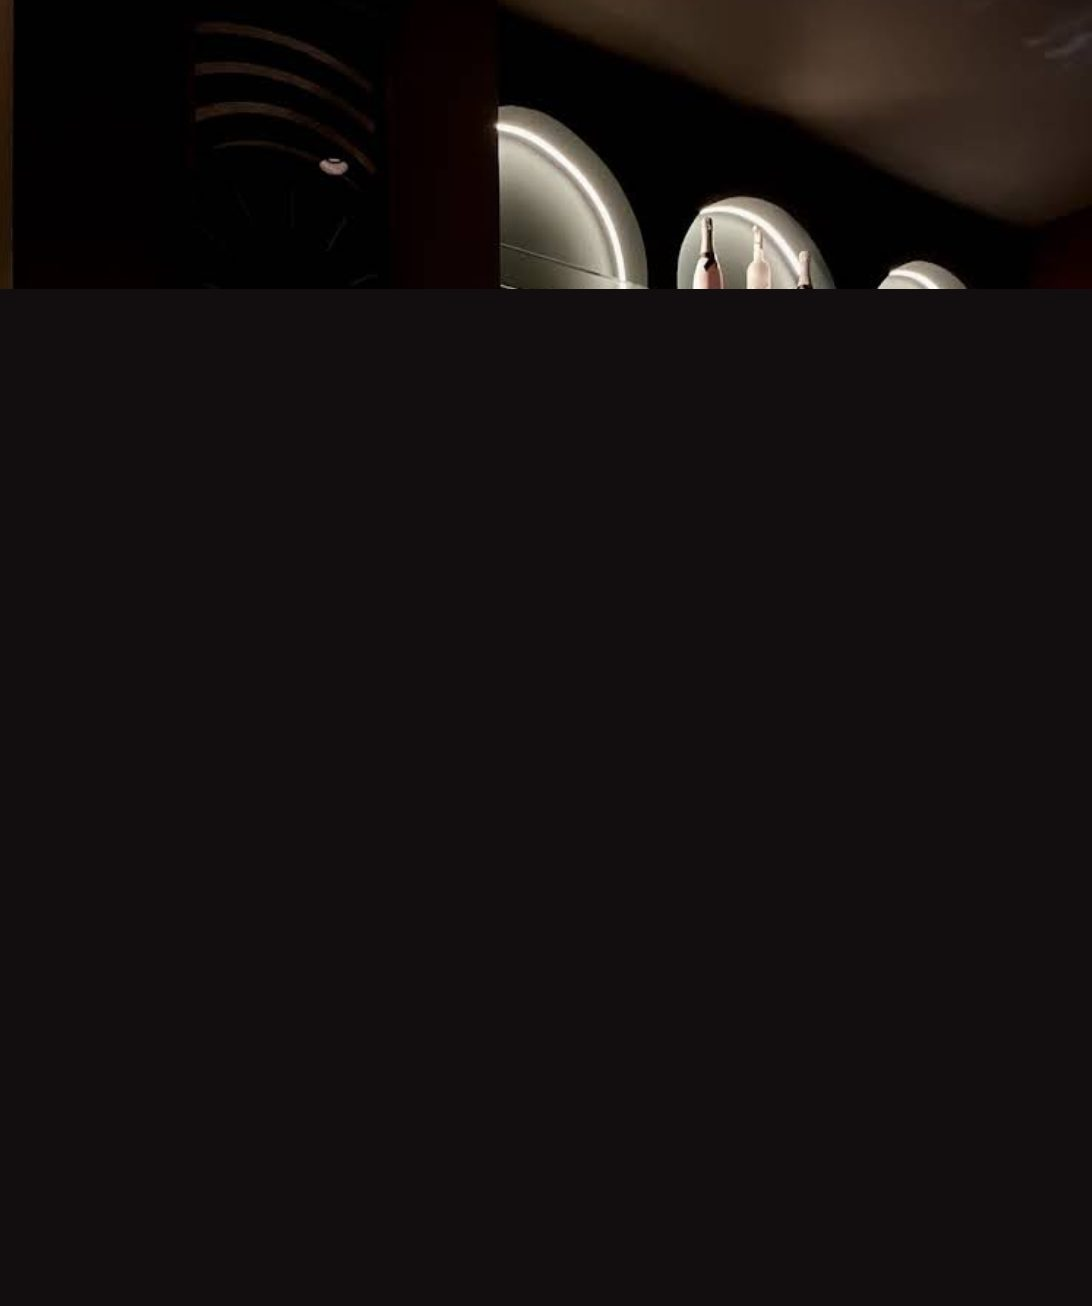
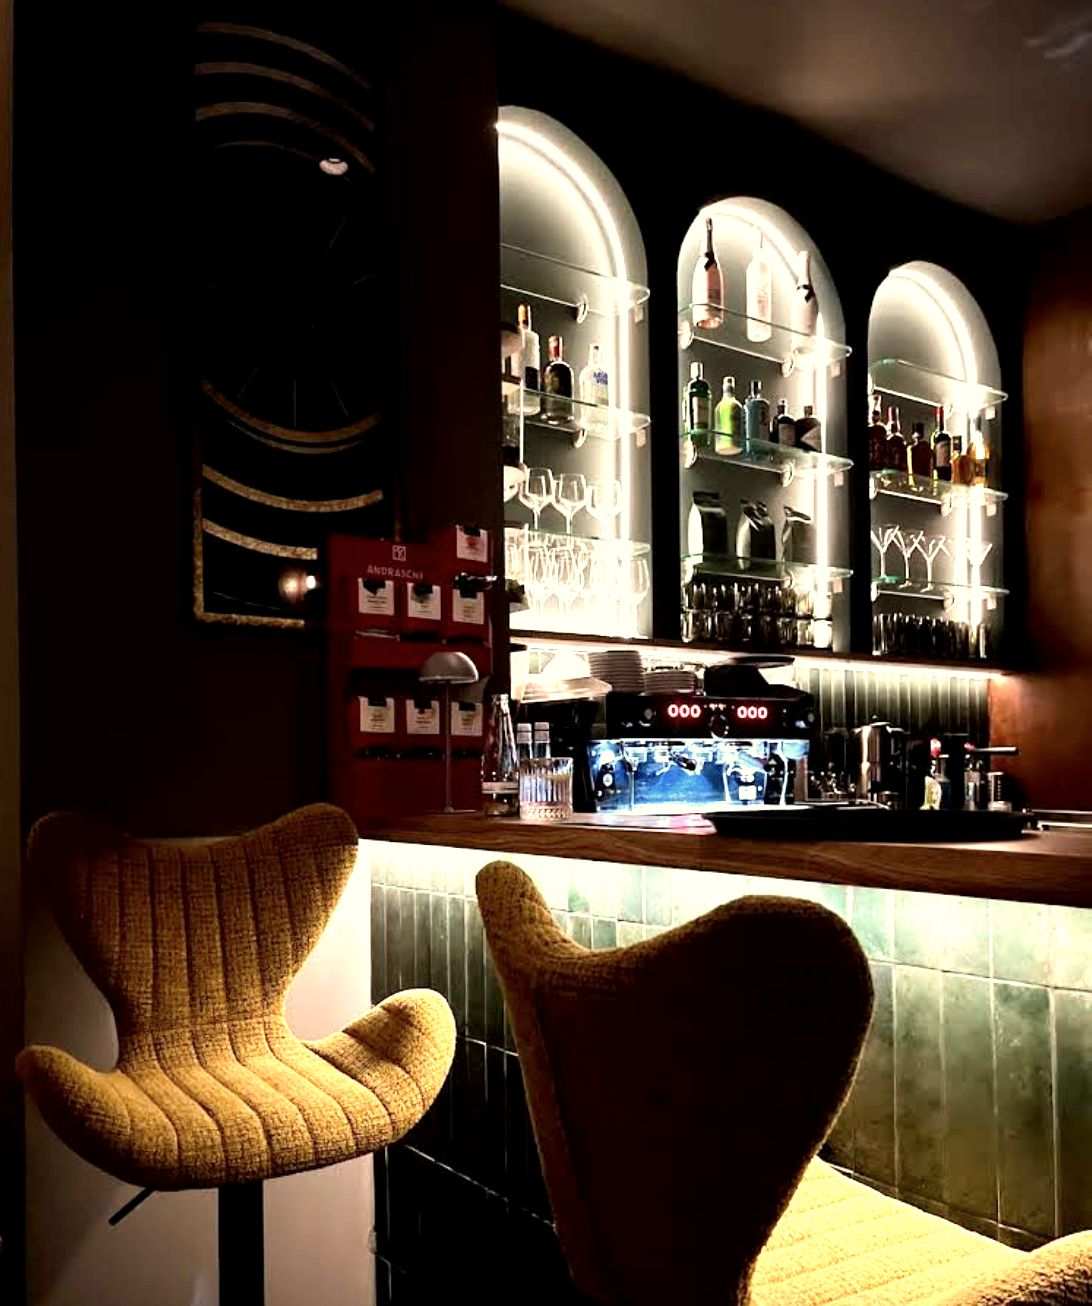
Real hero photos, drop placeholder menu link, hours line and WhatsApp CTA
Replace the truncated exports with the full-size photos from the design
project, graded consistently (matched luminance, slight contrast,
desaturation and warmth) and compressed to progressive JPEG.
Remove the Karte/Menu link, the WhatsApp reservation button and the
opening-hours line on the Fassade page until the real details exist.

Claude-Session: https://claude.ai/code/session_01W9H5piJPiQHEiohwsZK1Ds

diff --git a/arch.html b/arch.html
@@ -21,7 +21,7 @@
 
   <nav class="nav">
     <span class="wordmark"><span class="s">Studio</span><span class="b">B</span></span>
-    <div class="links"><a href="#">Karte</a><a href="https://www.instagram.com/studio.b.bln/">Instagram</a><a href="https://www.google.com/maps/place/Studio+B/@52.5016235,13.4146316,17z/data=!3m1!4b1!4m6!3m5!1s0x47a84f69cd9906bf:0x257fa1ad01eaf12c!8m2!3d52.5016203!4d13.4172065!16s%2Fg%2F11nty3sv2d?entry=ttu&amp;g_ep=EgoyMDI2MDkwMS4wIKXMDSoASAFQAw%3D%3D">Oranienstr. 168</a></div>
+    <div class="links"><a href="https://www.instagram.com/studio.b.bln/">Instagram</a><a href="https://www.google.com/maps/place/Studio+B/@52.5016235,13.4146316,17z/data=!3m1!4b1!4m6!3m5!1s0x47a84f69cd9906bf:0x257fa1ad01eaf12c!8m2!3d52.5016203!4d13.4172065!16s%2Fg%2F11nty3sv2d?entry=ttu&amp;g_ep=EgoyMDI2MDkwMS4wIKXMDSoASAFQAw%3D%3D">Oranienstr. 168</a></div>
   </nav>
 
   <div class="stage">
@@ -48,7 +48,6 @@
         <div><span>Fr–Sa</span><span>9–03</span></div>
         <div><span>So</span><span>9–24</span></div>
       </div>
-      <a class="btn" href="https://wa.me/49000000000">Tisch · WhatsApp</a>
     </div>
   </div>
 

diff --git a/index.html b/index.html
@@ -28,7 +28,7 @@
   </div>
 
   <nav class="nav">
-    <div class="links"><a href="#">Karte / Menu</a><a href="https://www.instagram.com/studio.b.bln/">Instagram</a></div>
+    <div class="links"><a href="https://www.instagram.com/studio.b.bln/">Instagram</a></div>
     <div class="links"><span>Kreuzberg 36</span></div>
   </nav>
 
@@ -38,9 +38,7 @@
     <div class="info">
       <div>Bar · Küche<span class="muted"> / Bar · Kitchen</span></div>
       <a class="dim" href="https://www.google.com/maps/place/Studio+B/@52.5016235,13.4146316,17z/data=!3m1!4b1!4m6!3m5!1s0x47a84f69cd9906bf:0x257fa1ad01eaf12c!8m2!3d52.5016203!4d13.4172065!16s%2Fg%2F11nty3sv2d?entry=ttu&amp;g_ep=EgoyMDI2MDkwMS4wIKXMDSoASAFQAw%3D%3D">Oranienstraße 168 · 10999 Berlin ↗</a>
-      <div class="dim" style="font-size:13px">Mo–Di 9–20 · Mi 9–24 · Do 9–01 · Fr–Sa 9–03 · So 9–24</div>
     </div>
-    <a class="btn" href="https://wa.me/49000000000">Reservieren · WhatsApp</a>
   </div>
 </main>
 </body>

diff --git a/split.html b/split.html
@@ -35,7 +35,7 @@
   <div class="grain" aria-hidden="true"></div>
 
   <nav class="nav">
-    <div class="links"><a href="#">Menu</a><a href="https://www.instagram.com/studio.b.bln/">@studio.b.bln</a></div>
+    <div class="links"><a href="https://www.instagram.com/studio.b.bln/">@studio.b.bln</a></div>
     <a href="https://www.google.com/maps/place/Studio+B/@52.5016235,13.4146316,17z/data=!3m1!4b1!4m6!3m5!1s0x47a84f69cd9906bf:0x257fa1ad01eaf12c!8m2!3d52.5016203!4d13.4172065!16s%2Fg%2F11nty3sv2d?entry=ttu&amp;g_ep=EgoyMDI2MDkwMS4wIKXMDSoASAFQAw%3D%3D">Oranienstraße 168 ↗</a>
   </nav>
 
@@ -47,7 +47,6 @@
 
   <div class="footer">
     <div class="info"><div>Bar · Küche <span class="muted">/ Bar · Kitchen</span></div></div>
-    <a class="btn" href="https://wa.me/49000000000">Reservieren · WhatsApp</a>
   </div>
 </main>
 </body>
